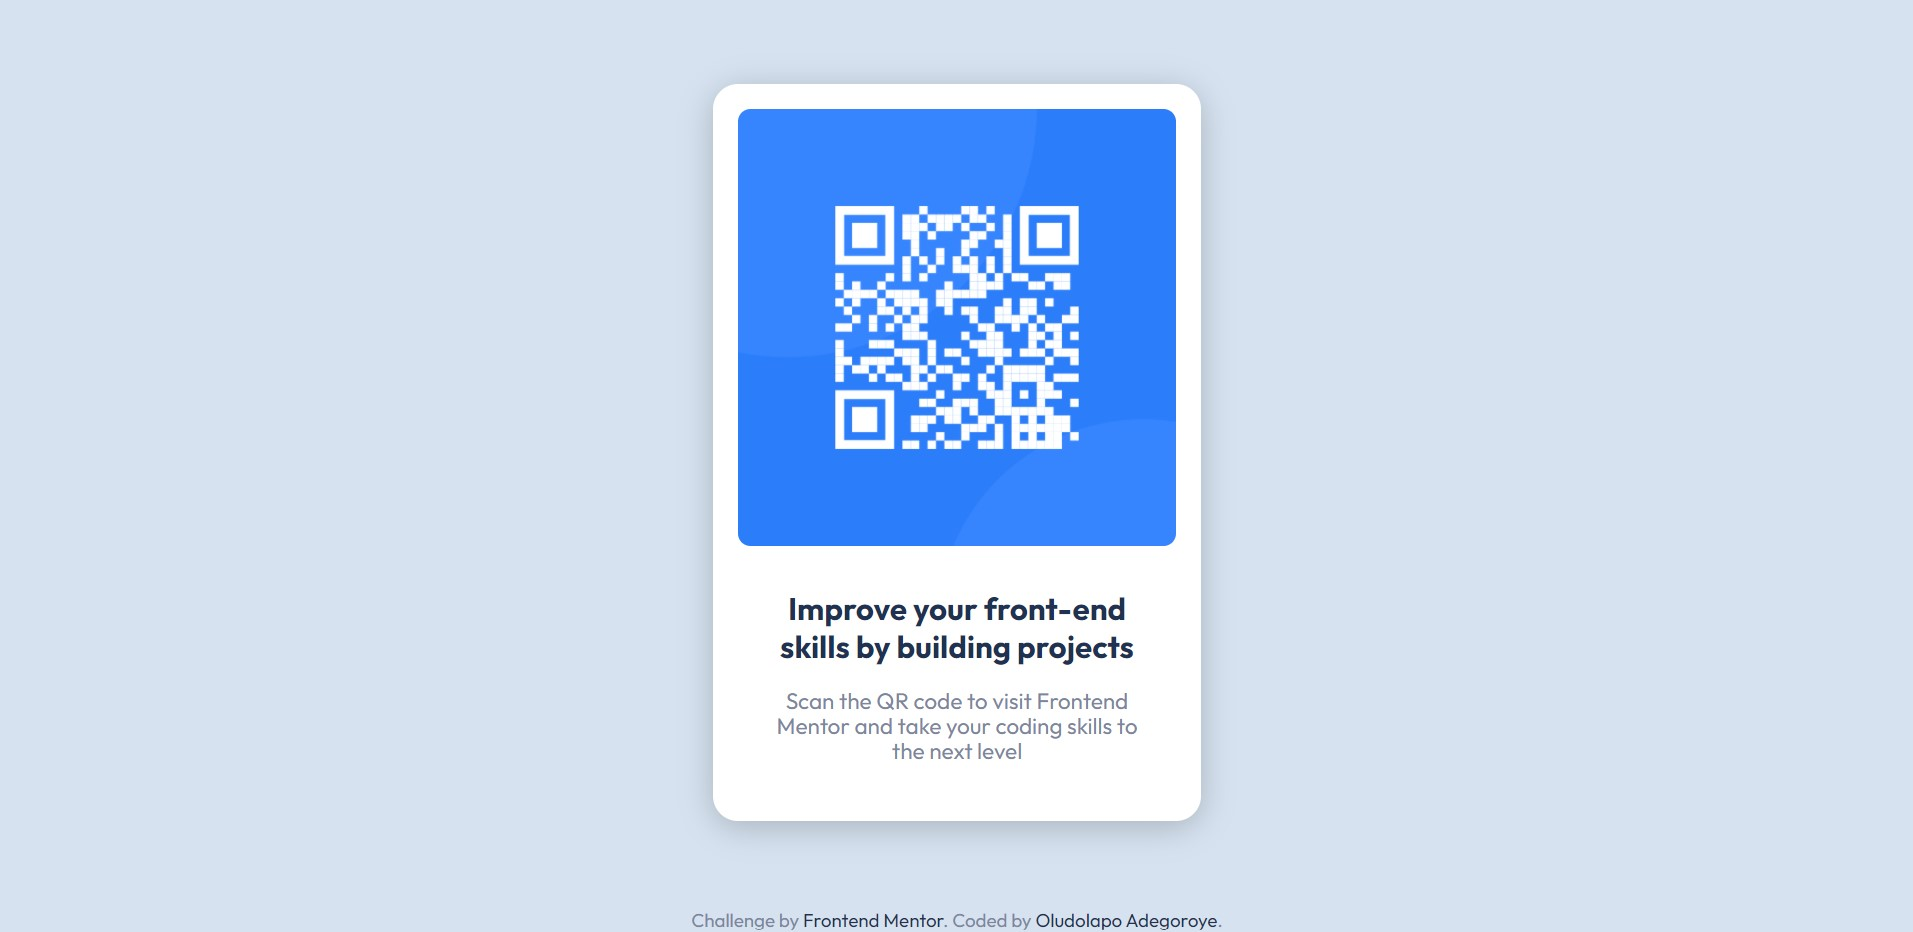
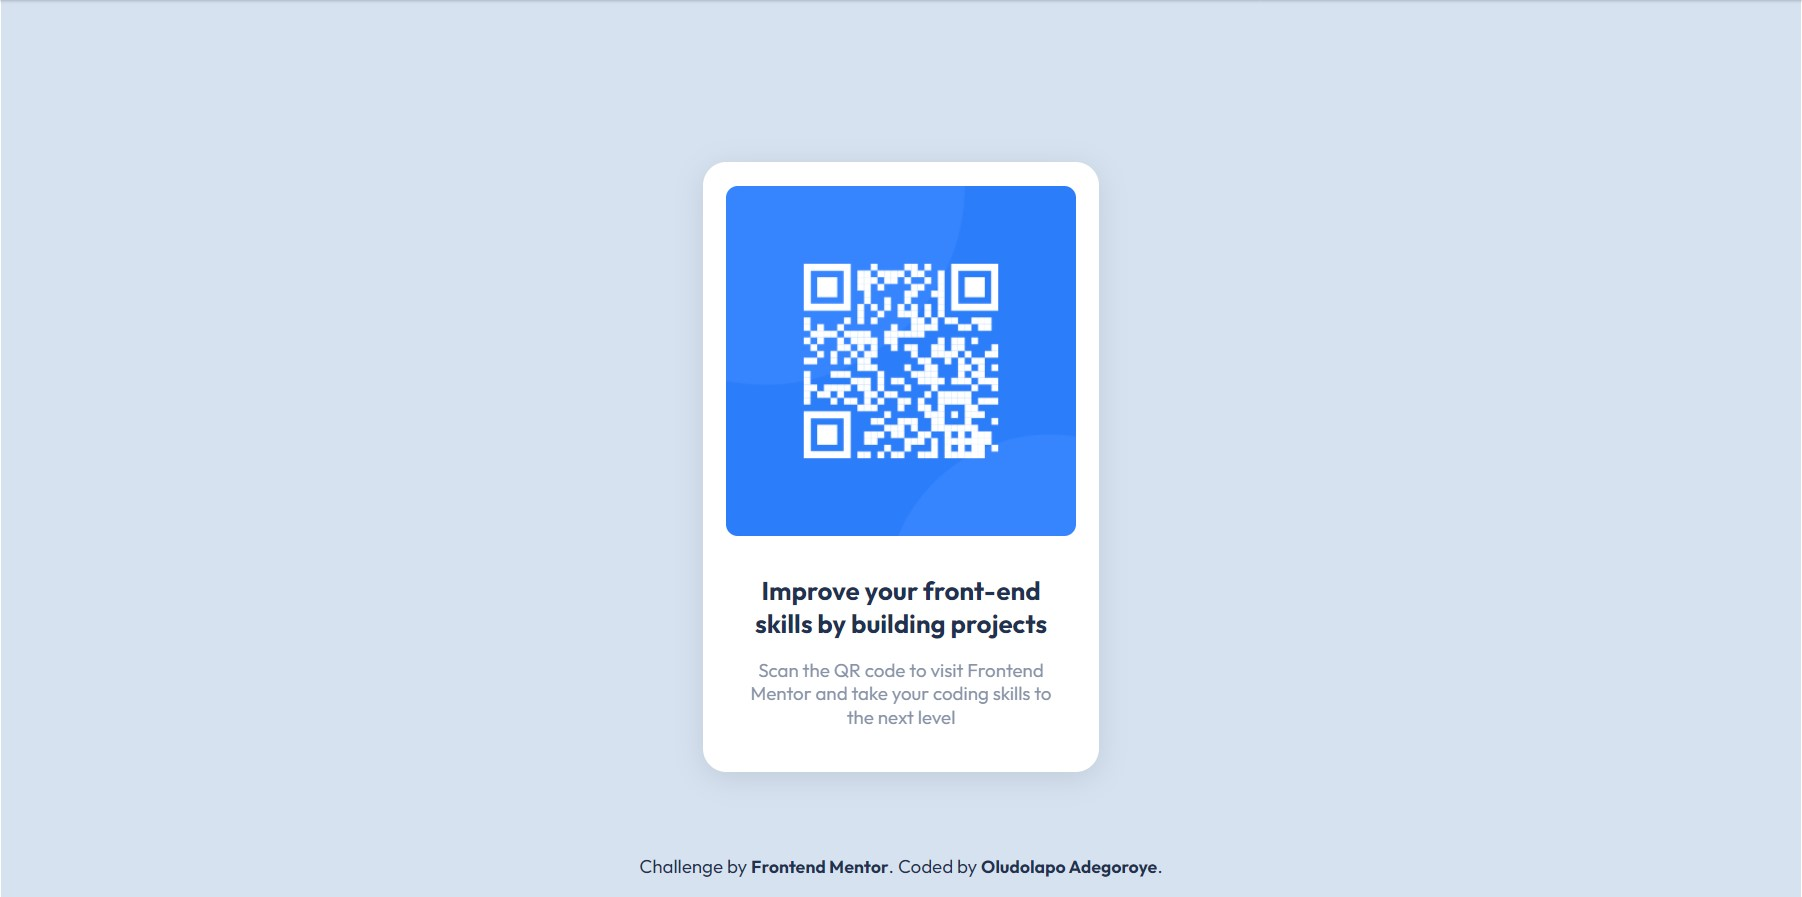
converted css to scss

Changed region(s): [[0.3729, 0.0624, 0.6526, 0.9052], [0.3418, 0.9365, 0.6526, 0.9989], [0.9945, 0.0, 1.0, 0.0312]]

diff --git a/styles/styles.css b/styles/styles.css
@@ -1,0 +1,79 @@
+/* colors */
+/* colors */
+body {
+  font-size: 0.938em;
+  color: #1f3251;
+  font-family: "Outfit", sans-serif;
+  font-weight: 1.25em;
+  text-align: center;
+  background-color: #d6e2f0;
+}
+
+.attribution a {
+  font-size: 0.938em;
+  color: #1f3251;
+  font-family: "Outfit", sans-serif;
+  font-weight: 700;
+  text-align: center;
+  line-height: 1.25em;
+  text-decoration: none;
+}
+
+.container {
+  display: -webkit-box;
+  display: -ms-flexbox;
+  display: flex;
+  -webkit-box-pack: center;
+      -ms-flex-pack: center;
+          justify-content: center;
+  -webkit-box-align: center;
+      -ms-flex-align: center;
+          align-items: center;
+  margin: 8.75em 4.375em 4.375em 4.375em;
+}
+
+.container .card {
+  background-color: white;
+  border-radius: 1.25em;
+  width: 280px;
+  height: 450px;
+  padding: 1.25em;
+  -webkit-box-shadow: 0 0.313em 1.563em rgba(0, 0, 0, 0.1);
+          box-shadow: 0 0.313em 1.563em rgba(0, 0, 0, 0.1);
+}
+
+.container .card .qr-code img {
+  width: 100%;
+  border-radius: 0.625em;
+}
+
+.container .card .card-body {
+  padding: 0.938em 0.438em 1.875em 0.438em;
+}
+
+.container .card .card-body h1 {
+  font-size: 1.375em;
+  color: #1f3251;
+  font-family: "Outfit", sans-serif;
+  font-weight: 700;
+  text-align: center;
+  line-height: 1.25em;
+}
+
+.container .card .card-body p {
+  font-size: 1em;
+  color: #7b879d;
+  font-family: "Outfit", sans-serif;
+  font-weight: 400;
+  text-align: center;
+  line-height: 1.25em;
+  padding: 0 0.625em;
+  opacity: 0.9;
+}
+
+@media (max-width: 568px) {
+  .container {
+    margin: 5.75em 1.25em 1.25em 1.25em;
+  }
+}
+/*# sourceMappingURL=styles.css.map */

diff --git a/styles/styles.scss b/styles/styles.scss
@@ -1,0 +1,51 @@
+@import "./variables.scss";
+@import "./mixins.scss";
+
+body {
+  @include qr-code-text-styles(0.938em, 400, 1.25em);
+  background-color: $light-gray-color;
+}
+
+.attribution {
+  a {
+    @include qr-code-text-styles(0.938em, $dark-blue-color, 700, 1.25em);
+    text-decoration: none;
+  }
+}
+.container {
+  display: flex;
+  justify-content: center;
+  align-items: center;
+  margin: 8.75em 4.375em 4.375em 4.375em;
+  .card {
+    background-color: $white-color;
+    border-radius: 1.25em;
+    width: 280px;
+    height: 450px;
+    padding: 1.25em;
+    box-shadow: 0 0.313em 1.563em rgba(0, 0, 0, 0.1);
+    .qr-code {
+      img {
+        width: 100%;
+        border-radius: 0.625em;
+      }
+    }
+    .card-body {
+      padding: 0.938em 0.438em 1.875em 0.438em;
+      h1 {
+        @include qr-code-text-styles(1.375em, $dark-blue-color, 700, 1.25em);
+      }
+      p {
+        @include qr-code-text-styles(1em, $grayish-blue-color, 400, 1.25em);
+        padding: 0 0.625em;
+        opacity: 0.9;
+      }
+    }
+  }
+}
+
+@media (max-width: $mobile-breakpoint) {
+  .container {
+    margin: 5.75em 1.25em 1.25em 1.25em;
+  }
+}

diff --git a/styles/mixins.scss b/styles/mixins.scss
@@ -1,0 +1,19 @@
+@import "./variables.scss";
+
+@mixin qr-code-text-styles(
+  $font-size: null,
+  $color: $grayish-blue-color,
+  $font-weight: null,
+  $line-height: null
+) {
+  @if ($color != $grayish-blue-color) {
+    $color: $dark-blue-color;
+  }
+
+  font-size: $font-size;
+  color: $color;
+  font-family: $font-family;
+  font-weight: $font-weight;
+  text-align: center;
+  line-height: $line-height;
+}

diff --git a/styles/variables.scss b/styles/variables.scss
@@ -1,0 +1,8 @@
+/* colors */
+$white-color: hsl(0, 0%, 100%);
+$light-gray-color: hsl(212, 45%, 89%);
+$grayish-blue-color: hsl(220, 15%, 55%);
+$dark-blue-color: hsl(218, 44%, 22%);
+$font-family: "Outfit", sans-serif;
+$mobile-breakpoint: 568px;
+$tablet-breakpoint: 991px;

diff --git a/index.html b/index.html
@@ -21,7 +21,7 @@
     />
 
     <!-- Style sheets-->
-    <link rel="stylesheet" href="style.css" />
+    <link rel="stylesheet" href="styles/styles.css" />
 
     <title>Frontend Mentor | QR code component</title>
   </head>

diff --git a/styles/variables.css b/styles/variables.css
@@ -1,0 +1,2 @@
+/* colors */
+/*# sourceMappingURL=variables.css.map */

diff --git a/styles/mixins.css b/styles/mixins.css
@@ -1,0 +1,2 @@
+/* colors */
+/*# sourceMappingURL=mixins.css.map */
